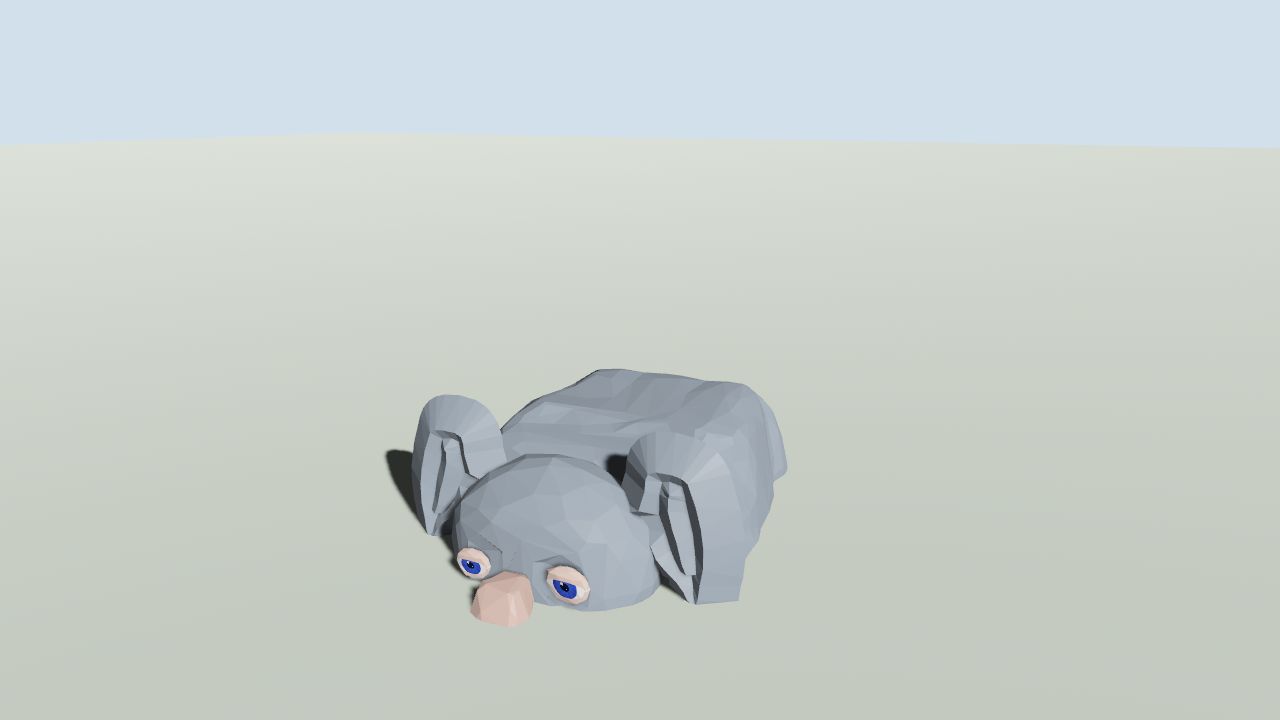
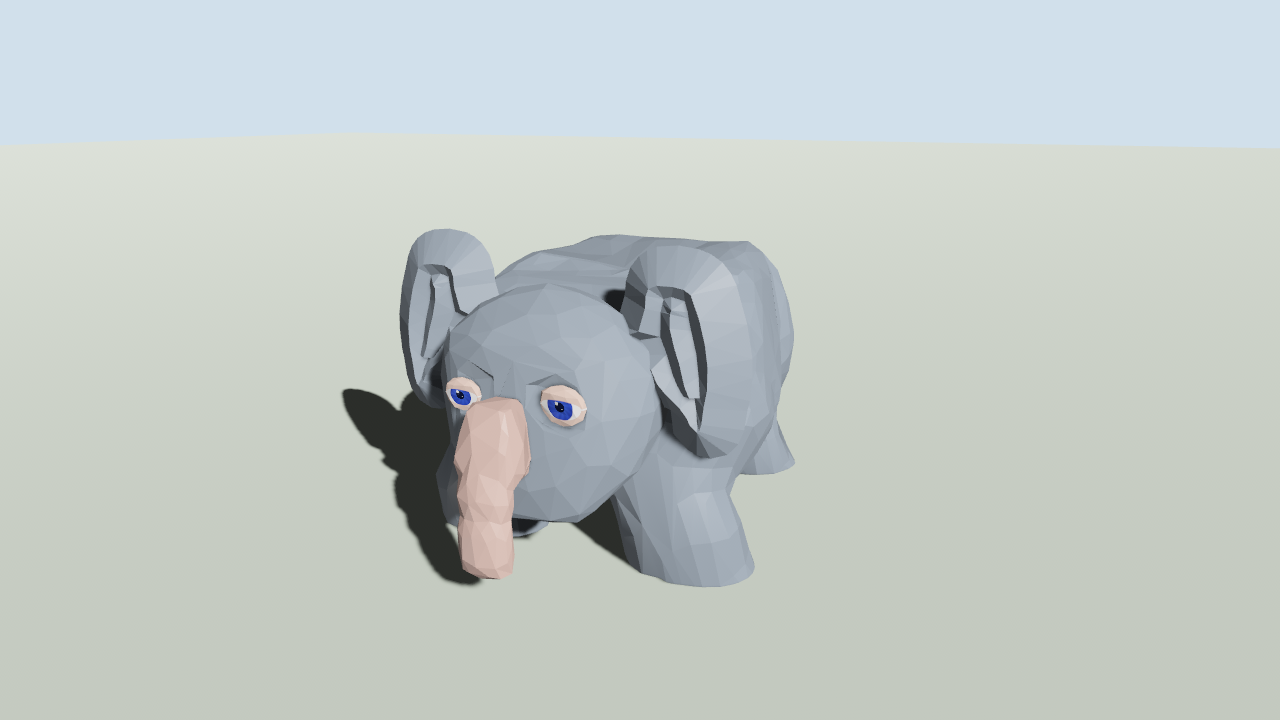
fix(playground): align capture ground to scaled foot contact
Track lowest body-mesh world Y (scaled foot contact) for the capture ground plane and camera ground margin; delay interrupted frames into mid-bray. Recapture all epiphant-1130 stills.

Changed region(s): [[0.25, 0.3056, 0.625, 0.8556]]

diff --git a/maybraid/menu/character-concepts-playground/src/preview_capture.rs b/maybraid/menu/character-concepts-playground/src/preview_capture.rs
@@ -7,7 +7,11 @@ use bevy::math::bounding::Aabb3d;
 use bevy::mesh::{Mesh, VertexAttributeValues};
 use bevy::prelude::*;
 use character_motion::{sample_bray_mouth_emit, BrayMouthEmit};
-use characters::{BoneMap, CharacterMembers, CharacterPart, CharacterRig, CharacterRigRole};
+use characters::{
+	BoneMap, CharacterMembers, CharacterPart, CharacterPartSlot, CharacterRig, CharacterRigRole,
+	LocomotionCapsule,
+};
+use characters::species::epiphant::{pose::EpiphantPose, EpiphantConfig};
 use game_commands::GameCommandDrawerVisible;
 
 use crate::focus_reference::FocusReferenceRig;
@@ -95,6 +99,7 @@ pub fn load_preview_capture_settings(mut commands: Commands) {
 	if settings.active() {
 		commands.insert_resource(settings);
 		commands.insert_resource(CaptureCameraLocked);
+		commands.init_resource::<CaptureGroundContact>();
 		commands.init_resource::<PreviewCaptureInterruptState>();
 		commands.init_resource::<PendingCaptureInterrupt>();
 	}
@@ -104,22 +109,34 @@ pub fn load_preview_capture_settings(mut commands: Commands) {
 #[derive(Component)]
 pub struct CaptureGroundPlane;
 
+/// World-space Y of the ground plane during capture (foot contact).
+#[derive(Resource, Debug, Clone, Copy, Default)]
+pub struct CaptureGroundContact {
+	pub y: Option<f32>,
+}
+
 /// Fallback when mesh bounds are not ready yet.
 pub fn capture_camera_frame_fallback(encounter_scale: f32) -> (Vec3, Vec3) {
 	let scale = encounter_scale.max(1.0);
-	let center = Vec3::new(0.0, 0.9 * scale, 0.0);
+	let ground_y = capture_ground_anchor_y(scale);
+	let center = Vec3::new(0.0, ground_y + 0.9 * scale, 0.0);
 	let distance = 5.5 * scale;
 	let dir = Vec3::new(0.42, 0.28, 0.86).normalize();
 	(center + dir * distance, center)
 }
 
 /// Frame the full character AABB (feet + ground) in a 3/4 elevated view.
-pub fn capture_camera_frame_for_bounds(bounds: Aabb3d, aspect: f32, fov_y: f32) -> (Vec3, Vec3) {
+pub fn capture_camera_frame_for_bounds(
+	bounds: Aabb3d,
+	aspect: f32,
+	fov_y: f32,
+	ground_y: f32,
+) -> (Vec3, Vec3) {
 	const MARGIN: f32 = 1.14;
 	let mut min = Vec3::from(bounds.min);
 	let mut max = Vec3::from(bounds.max);
 	// Keep ground contact in frame.
-	min.y = min.y.min(0.0);
+	min.y = min.y.min(ground_y);
 	let center = (min + max) * 0.5;
 	let size = (max - min) * MARGIN;
 	let height = size.y.max(0.5);
@@ -133,15 +150,24 @@ pub fn capture_camera_frame_for_bounds(bounds: Aabb3d, aspect: f32, fov_y: f32) 
 	(center + dir * distance, center)
 }
 
-pub fn union_preview_mesh_bounds(
-	meshes: &Query<
-		(&Mesh3d, &GlobalTransform, Option<&Visibility>),
-		(With<CharacterPart>, Without<FocusReferenceRig>, Without<CaptureGroundPlane>),
-	>,
+fn foot_bearing_part(slot: CharacterPartSlot) -> bool {
+	matches!(slot, CharacterPartSlot::BodyMesh | CharacterPartSlot::Clothing)
+}
+
+#[derive(Debug, Clone, Copy, Default)]
+pub struct PreviewMeshScan {
+	pub bounds: Option<Aabb3d>,
+	pub foot_contact_y: Option<f32>,
+}
+
+pub fn scan_preview_meshes<'a>(
 	mesh_assets: &Assets<Mesh>,
-) -> Option<Aabb3d> {
+	meshes: impl Iterator<Item = (&'a Mesh3d, &'a GlobalTransform, Option<&'a Visibility>, Option<&'a CharacterPart>)>,
+) -> PreviewMeshScan {
 	let mut union: Option<Aabb3d> = None;
-	for (mesh3d, global, visibility) in meshes.iter() {
+	let mut foot_min: Option<f32> = None;
+	let mut all_min: Option<f32> = None;
+	for (mesh3d, global, visibility, part) in meshes {
 		if matches!(visibility, Some(Visibility::Hidden)) {
 			continue;
 		}
@@ -151,12 +177,35 @@ pub fn union_preview_mesh_bounds(
 		let Some(world) = mesh_world_aabb(mesh, global) else {
 			continue;
 		};
+		let y = world.min.y;
+		all_min = Some(all_min.map_or(y, |current| current.min(y)));
+		if part.is_none_or(|part| foot_bearing_part(part.slot)) {
+			foot_min = Some(foot_min.map_or(y, |current| current.min(y)));
+		}
 		union = Some(match union {
 			None => world,
 			Some(acc) => Aabb3d::from_min_max(acc.min.min(world.min), acc.max.max(world.max)),
 		});
 	}
-	union
+	PreviewMeshScan {
+		bounds: union,
+		foot_contact_y: foot_min.or(all_min),
+	}
+}
+
+/// Rest-pose foot depth for the default Epiphant preview recipe, scaled to encounter size.
+pub fn capture_ground_anchor_y(encounter_scale: f32) -> f32 {
+	let pose = EpiphantPose::from_config(&EpiphantConfig::default_preview());
+	let hull = LocomotionCapsule::quadruped_for_limb_length(pose.rest_limb_scale());
+	let scale = encounter_scale.max(1.0);
+	-hull.half_height() * scale
+}
+
+pub fn union_preview_mesh_bounds<'a>(
+	mesh_assets: &Assets<Mesh>,
+	meshes: impl Iterator<Item = (&'a Mesh3d, &'a GlobalTransform, Option<&'a Visibility>, Option<&'a CharacterPart>)>,
+) -> Option<Aabb3d> {
+	scan_preview_meshes(mesh_assets, meshes).bounds
 }
 
 fn mesh_world_aabb(mesh: &Mesh, global: &GlobalTransform) -> Option<Aabb3d> {
@@ -204,12 +253,45 @@ pub fn setup_capture_ground(
 		perceptual_roughness: 0.95,
 		..default()
 	});
+	let anchor_y = capture_ground_anchor_y(scale);
 	commands.spawn((
 		Mesh3d(mesh),
 		MeshMaterial3d(material),
-		Transform::IDENTITY,
+		Transform::from_translation(Vec3::new(0.0, anchor_y, 0.0)),
 		CaptureGroundPlane,
 	));
+}
+
+pub fn align_capture_ground_to_contact(
+	settings: Option<Res<PreviewCaptureSettings>>,
+	mut contact: ResMut<CaptureGroundContact>,
+	meshes: Query<
+		(
+			&Mesh3d,
+			&GlobalTransform,
+			Option<&Visibility>,
+			Option<&CharacterPart>,
+		),
+		(
+			With<CharacterPart>,
+			Without<FocusReferenceRig>,
+			Without<CaptureGroundPlane>,
+		),
+	>,
+	mesh_assets: Res<Assets<Mesh>>,
+	mut ground: Query<&mut Transform, With<CaptureGroundPlane>>,
+) {
+	let Some(settings) = settings else {
+		return;
+	};
+	let scan = scan_preview_meshes(mesh_assets.as_ref(), meshes.iter());
+	let ground_y = scan
+		.foot_contact_y
+		.unwrap_or_else(|| capture_ground_anchor_y(settings.encounter_scale));
+	contact.y = Some(ground_y);
+	for mut transform in &mut ground {
+		transform.translation.y = ground_y;
+	}
 }
 
 pub fn mouth_emit_gizmo_enabled(settings: Option<Res<PreviewCaptureSettings>>) -> bool {

diff --git a/maybraid/menu/character-concepts-playground/src/camera_focus.rs b/maybraid/menu/character-concepts-playground/src/camera_focus.rs
@@ -151,6 +151,7 @@ pub fn apply_camera_suggestion(
 	look_enabled: Option<Res<CameraLookEnabled>>,
 	capture_locked: Option<Res<crate::preview_capture::CaptureCameraLocked>>,
 	capture_settings: Option<Res<crate::preview_capture::PreviewCaptureSettings>>,
+	ground_contact: Option<Res<crate::preview_capture::CaptureGroundContact>>,
 	mut pending: ResMut<PendingCameraFocus>,
 	shadow_rigs: ShadowRigQuery,
 	bone_globals: Query<&GlobalTransform>,
@@ -159,6 +160,7 @@ pub fn apply_camera_suggestion(
 			&bevy::prelude::Mesh3d,
 			&GlobalTransform,
 			Option<&Visibility>,
+			Option<&characters::CharacterPart>,
 		),
 		(
 			With<characters::CharacterPart>,
@@ -184,11 +186,23 @@ pub fn apply_camera_suggestion(
 					_ => std::f32::consts::FRAC_PI_4,
 				}
 			});
+			let ground_y = ground_contact
+				.and_then(|contact| contact.y)
+				.unwrap_or_else(|| {
+					crate::preview_capture::capture_ground_anchor_y(settings.encounter_scale)
+				});
 			let (eye, look_at) = crate::preview_capture::union_preview_mesh_bounds(
-				&preview_meshes,
 				mesh_assets.as_ref(),
+				preview_meshes.iter(),
 			)
-				.map(|bounds| crate::preview_capture::capture_camera_frame_for_bounds(bounds, aspect, fov_y))
+				.map(|bounds| {
+					crate::preview_capture::capture_camera_frame_for_bounds(
+						bounds,
+						aspect,
+						fov_y,
+						ground_y,
+					)
+				})
 				.unwrap_or_else(|| {
 					crate::preview_capture::capture_camera_frame_fallback(settings.encounter_scale)
 				});

diff --git a/maybraid/menu/character-concepts-playground/src/lib.rs b/maybraid/menu/character-concepts-playground/src/lib.rs
@@ -154,11 +154,13 @@ impl Plugin for CharacterConceptsPlaygroundPlugin {
 			.add_systems(
 				PostUpdate,
 				(
+					preview_capture::align_capture_ground_to_contact,
 					preview_capture::draw_preview_mouth_emit_gizmo
 						.run_if(preview_capture::mouth_emit_gizmo_enabled),
 					apply_camera_suggestion
 						.after(TransformSystems::Propagate)
-						.after(CharacterHostSystems::Pose),
+						.after(CharacterHostSystems::Pose)
+						.after(preview_capture::align_capture_ground_to_contact),
 				),
 			);
 	}

diff --git a/maybraid/world/layers/mobs/characters/animations/previews/epiphant-1130/README.md b/maybraid/world/layers/mobs/characters/animations/previews/epiphant-1130/README.md
@@ -8,10 +8,10 @@ Captured from `character-concepts-playground` on the clothed Epiphant recipe (qu
 | `ordinary-sleep-enter.png` | `epiphant-sleep-enter` | 1× | progress `0.90` (settle) |
 | `ordinary-sleep-hold.png` | `epiphant-sleep-hold` | 1× | progress `0.35` |
 | `ordinary-wake.png` | `epiphant-wake` | 1× | progress `0.18` (front plant) |
-| `ordinary-sleep-interrupted.png` | `epiphant-sleep-hold` → `epiphant-bray` | 1× | interrupt at 20 s, frame ~27 s |
-| `boss-bray.png` … `boss-sleep-interrupted.png` | same | 10× | `CROZON_PREVIEW_ENCOUNTER_SCALE=10`; boss interrupt at 22 s, frame ~30 s |
+| `ordinary-sleep-interrupted.png` | `epiphant-sleep-hold` → `epiphant-bray` | 1× | interrupt at 18 s, frame ~31 s (mid-bray rise) |
+| `boss-bray.png` … `boss-sleep-interrupted.png` | same | 10× | `CROZON_PREVIEW_ENCOUNTER_SCALE=10`; boss interrupt at 20 s, frame ~34 s |
 
-Capture hides the creator panel and command HUD (`CROZON_PREVIEW_HIDE_UI`), spawns a ground plane, frames the camera from live mesh bounds (centered, feet + ground in view), and draws the bray mouth-emit gizmo (cyan origin, yellow horizontal forward) when `CROZON_PREVIEW_DRAW_MOUTH_EMIT=1`.
+Capture hides the creator panel and command HUD (`CROZON_PREVIEW_HIDE_UI`), spawns a ground plane aligned each frame to the lowest **body-mesh** world Y (scaled foot contact, with Epiphant locomotion-capsule anchor before meshes load), frames the camera from live mesh bounds (centered, feet + ground in view), and draws the bray mouth-emit gizmo (cyan origin, yellow horizontal forward) when `CROZON_PREVIEW_DRAW_MOUTH_EMIT=1`.
 
 Regenerate:
 
